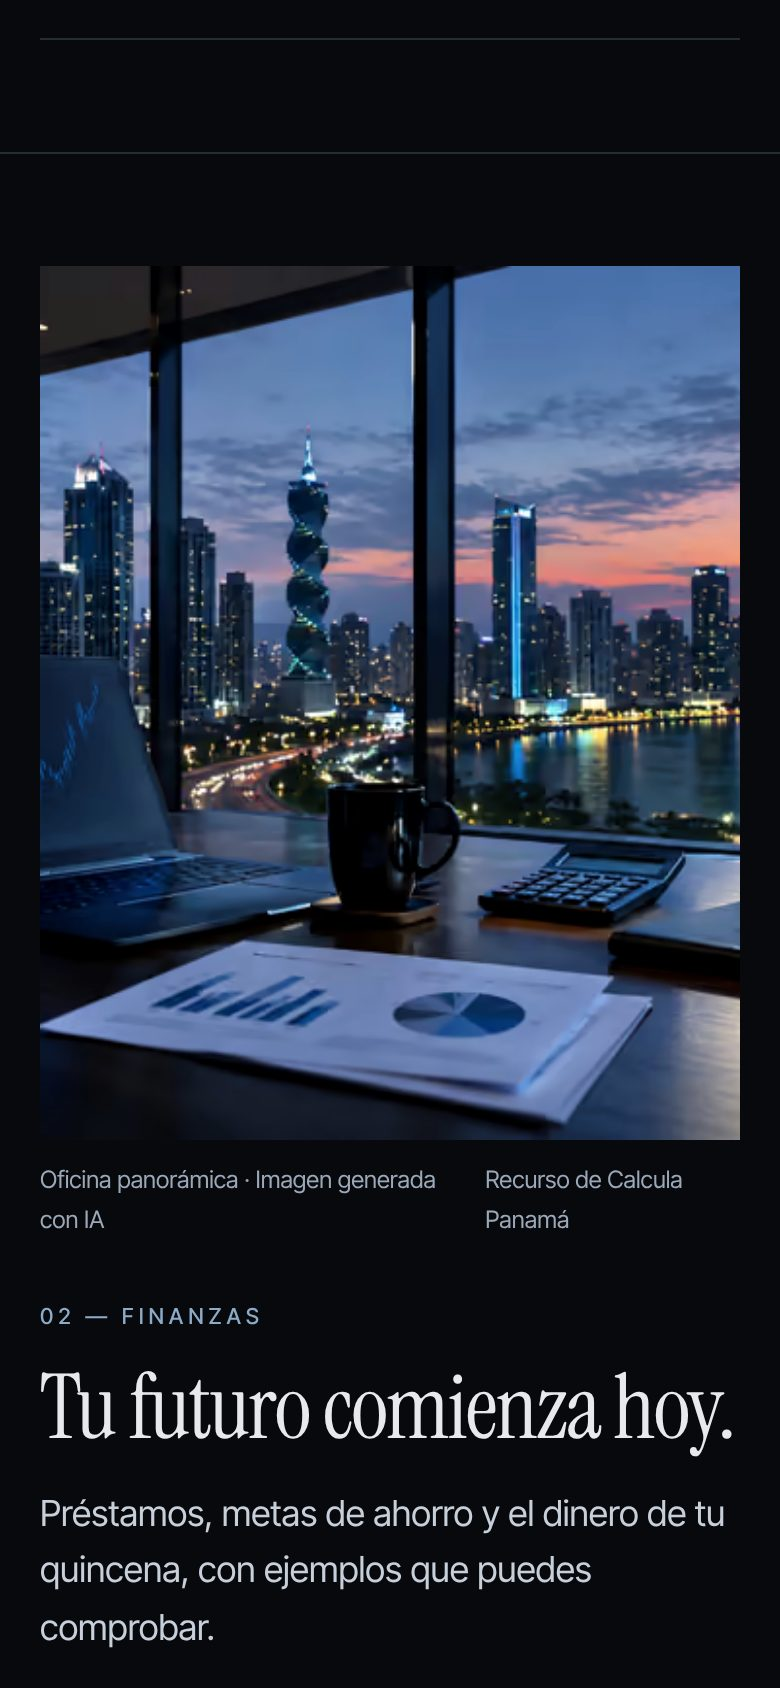
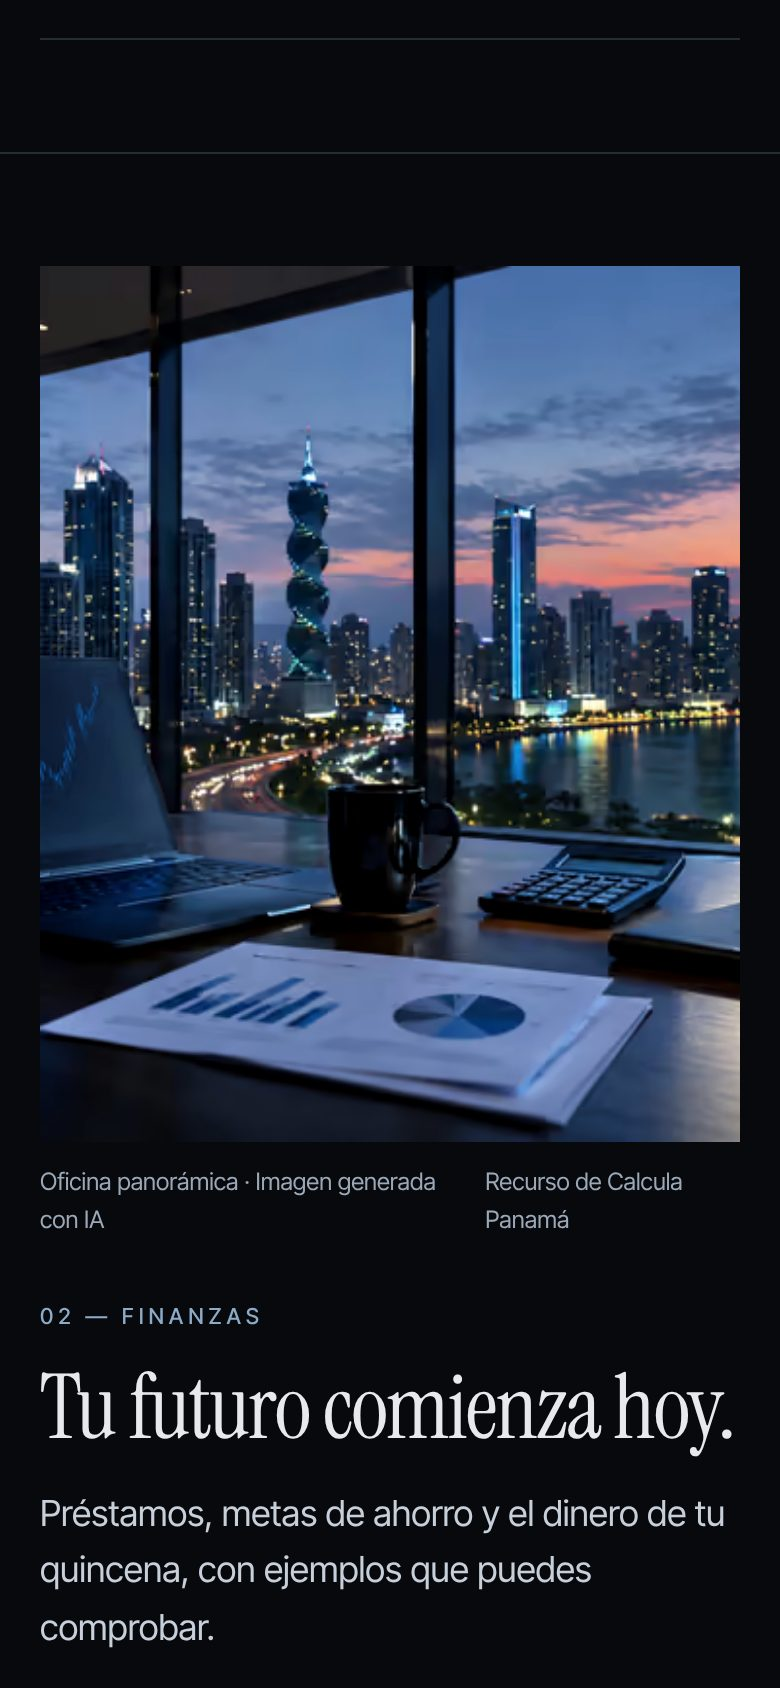
design(cp-design-006): decisiones del CEO — solo modo oscuro, pies de imagen y fondo de html
- Hilux como imagen ilustrativa sin afiliación con Toyota (pie y texto alternativo).
- Apartamento identificado como imagen generada con IA.
- Fondo de <html> literal (#08090C): la variable solo existía en body.ed.
- Pruebas de modo oscuro e identificación de imágenes; la portada entra en el job de Firefox y WebKit.

Claude-Session: https://claude.ai/code/session_01Q4WDkWaG9bXYM3nR4APebK

diff --git a/e2e/portada-editorial.e2e.ts b/e2e/portada-editorial.e2e.ts
@@ -57,3 +57,21 @@ test('SEO y política se conservan: título, canónica, datos estructurados, CSP
   await expect(page.locator('script[src*="adsbygoogle"]')).toHaveCount(0);
   await expect(page.locator('.datum .figure')).toContainText('1,236.92');
 });
+
+test('la portada es solo oscura, aunque el sistema o la preferencia guardada sean claros', async ({ page }) => {
+  await page.emulateMedia({ colorScheme: 'light' });
+  await page.addInitScript(() => { try { localStorage.setItem('cp-theme', 'light'); } catch { /* sin almacenamiento */ } });
+  await page.goto('/');
+  await expect(page.locator('body')).toHaveCSS('background-color', 'rgb(8, 9, 12)');
+  expect(await page.evaluate(() => getComputedStyle(document.documentElement).backgroundColor)).toBe('rgb(8, 9, 12)');
+  await expect(page.locator('h1')).toHaveCSS('color', 'rgb(231, 233, 237)');
+  await expect(page.locator('.theme-button')).toHaveCount(0);
+});
+
+test('imágenes identificadas: IA, ilustrativa y sin afiliación con Toyota', async ({ page }) => {
+  await page.goto('/');
+  await expect(page.locator('#hogar figcaption').first()).toContainText('Imagen generada con IA');
+  await expect(page.locator('#movilidad figcaption')).toContainText('Imagen ilustrativa generada con IA');
+  await expect(page.locator('#movilidad figcaption')).toContainText('no tiene afiliación con Toyota');
+  await expect(page.locator('#movilidad img')).not.toHaveAttribute('alt', /Toyota|Hilux/);
+});

diff --git a/playwright.browsers.config.ts b/playwright.browsers.config.ts
@@ -4,7 +4,7 @@ import { defineConfig, devices } from '@playwright/test';
 // escritorio y iPhone) sobre la compilación local. Se ejecuta en CI («Navegadores») porque aquí solo hay Chromium.
 export default defineConfig({
   testDir: './e2e',
-  testMatch: ['navegadores/**/*.e2e.ts', 'mi-quincena.e2e.ts', 'aisle.e2e.ts', 'aisle-invalid-edits.e2e.ts', 'aisle-mobile-redesign.e2e.ts'],
+  testMatch: ['navegadores/**/*.e2e.ts', 'mi-quincena.e2e.ts', 'aisle.e2e.ts', 'aisle-invalid-edits.e2e.ts', 'aisle-mobile-redesign.e2e.ts', 'portada-editorial.e2e.ts'],
   retries: process.env.CI ? 1 : 0,
   use: { baseURL: 'http://127.0.0.1:4329' },
   projects: [

diff --git a/src/styles/editorial.css b/src/styles/editorial.css
@@ -14,7 +14,7 @@ body.ed {
   --pad: clamp(20px, 4vw, 56px);
 }
 body.ed *, body.ed *::before, body.ed *::after { box-sizing: border-box; }
-html:has(> body.ed) { background: var(--obsidian); }
+html:has(> body.ed) { background: #08090C; color-scheme: dark; } /* las variables viven en body.ed */
 body.ed { margin: 0; background: var(--obsidian); color: var(--ivory); font: 400 16px/1.6 var(--sans); -webkit-font-smoothing: antialiased; }
 body.ed a { color: inherit; text-decoration: none; }
 body.ed img { display: block; max-width: 100%; }

diff --git a/docs/cp-design-006/INTEGRACION.md b/docs/cp-design-006/INTEGRACION.md
@@ -81,8 +81,13 @@ Sección por sección, en móvil (390 px @2x) y escritorio (1440 px):
 | Rendimiento de la portada (móvil, 4G lenta, CPU ×4) | LCP 0.96 s, CLS 0.001, 155 KB |
 | Contraste | Sin fallos, salvo el punto decorativo del colofón (`aria-hidden`, igual que en el prototipo) |
 
-## 6. Decisiones pendientes del CEO (heredadas de CP-DESIGN-006)
+## 6. Decisiones del CEO (27-11-2026)
 
-1. **Tema único oscuro** en la portada: se pierde el selector claro/oscuro solo en esta página.
-2. **Imágenes:** el origen del «apartamento» (¿foto real con elementos personales?) y el logotipo de Toyota en la Hilux.
-3. **Rail «Edición Midnight»:** el texto del prototipo se mantiene.
+1. **Solo modo oscuro:** la portada es siempre oscura, también con el sistema en modo claro o con el tema claro guardado (prueba e2e). El resto del sitio conserva su selector.
+2. **Apartamento:** generado con IA; el pie dice «Imagen generada con IA».
+3. **Hilux:** imagen ilustrativa, sin sugerir afiliación.
+   - Pie: «Camioneta pickup · Imagen ilustrativa generada con IA. Calcula Panamá no tiene afiliación con Toyota ni con sus marcas».
+   - El texto alternativo ya no menciona la marca.
+4. **Publicación autorizada** tras superar las verificaciones. La calculadora de horas extras sigue sin publicar.
+
+**Corrección añadida:** el fondo de `<html>` usaba una variable definida solo en `body.ed`. Ahora es `#08090C` literal, para que la zona de rebote al desplazarse también sea negra.
